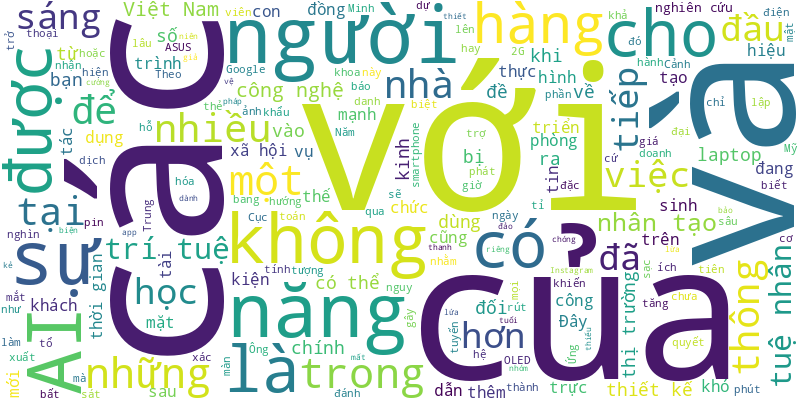
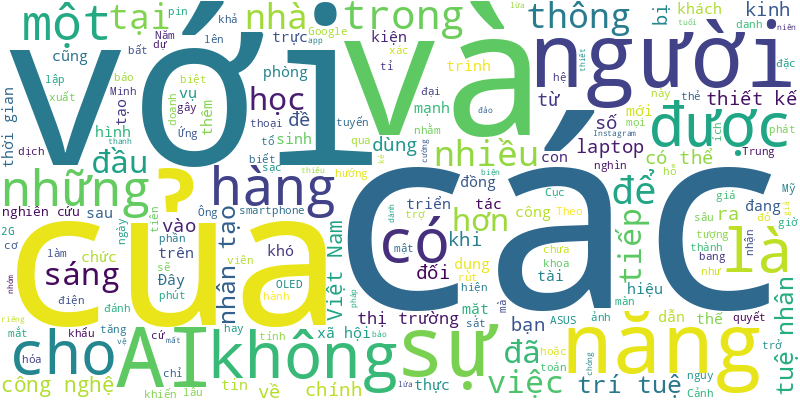
🍀 = 40%

diff --git a/README.md b/README.md
@@ -1,6 +1,19 @@
 # Tuoi Tre RSS 
 
 ## Giáo dục 
+- Đó là chia sẻ của ông Luke Turner, giám đốc điều hành Trường song ngữ quốc tế Emasi Nam Long, TP.HCM, về việc tổ chức "Tuần lễ sẻ chia" hướng về vùng bão lũ cho học sinh.
+- Những học sinh vùng lũ ở Trấn Yên (Yên Bái) đón nhận niềm vui trẻ thơ, sau nhiều ngày cùng gia đình vượt qua đợt mưa lũ lịch sử.
+- Huân chương Cành cọ hàn lâm ghi nhận nỗ lực không ngừng nghỉ của TS Phan Thị San Hà trong việc xây dựng và phát triển Trung tâm CARE cũng như bồi đắp mối quan hệ giữa Trường đại học Bách khoa (Đại học Quốc gia TP.HCM) và các đối tác Pháp.
+- Chiều 19-9, báo Tuổi Trẻ và Trường đại học Nguyễn Tất Thành tổng kết khóa 1 dự án hợp tác đào tạo sinh viên giữa hai bên.
+- Trước những thiệt hại do bão số 3, Bộ Giáo dục và Đào tạo yêu cầu các trường thực hiện các giải pháp dạy học linh hoạt, không gây áp lực, quá tải cho giáo viên và học sinh.
+- Năm học mới, Hải Phòng miễn toàn bộ học phí từ mầm non đến THPT; Quảng Ninh sẽ xem xét hỗ trợ 100% học phí cho học sinh vì bão số 3; Vĩnh Phúc giảm 50% học phí so với năm ngoái.
+- Số lượng sinh viên đại học bỏ học ở Hàn Quốc tăng đột biến trong 5 năm qua, khi có tới 90.000 sinh viên bỏ học từ năm 2019-2023.
+- Khóa học do các chuyên gia trong lĩnh vực bán dẫn từ Đại học Quốc gia Singapore (NUS), Trung tâm Nghiên cứu khoa học quốc gia Pháp (CNRS)... hướng dẫn.
+- Sáng 19-9, TP.HCM tổ chức sơ kết 1 năm triển khai chương trình phối hợp giữa Sở Giáo dục và Đào tạo và Sở Lao động - Thương binh và Xã hội về định hướng phân luồng và giáo dục nghề nghiệp với học sinh THCS và THPT giai đoạn 2023-2025.
+- Nhiều trường học tại TP.HCM đã dành ngày làm việc tốt "gửi nắng yêu thương" hướng về đồng bào vùng bão lũ.
+- Năm học 2024-2025, Trường đại học Cần Thơ triển khai đề án nâng cấp trường thành trung tâm đào tạo nguồn nhân lực chất lượng cao, nghiên cứu, ứng dụng khoa học của TP Cần Thơ và vùng Đồng bằng sông Cửu Long.
+- Để chủ động và linh hoạt trong ứng phó bão số 4, đảm bảo an toàn cho thầy và trò, Bộ Giáo dục và Đào tạo lưu ý 17 tỉnh, thành cân nhắc cho học sinh nghỉ học khi cần.
+- "Tham gia nhiều giải đấu nhưng bạn vẫn cân bằng được việc học, rồi còn rất tích cực trong các hoạt động của trường, thiện nguyện. Tiếp xúc với bạn, tôi thấy có nhiều động lực để phát triển bản thân hơn".
 - Tỉnh Thừa Thiên Huế đã phát thông báo cho học sinh toàn tỉnh nghỉ học để ứng phó với cơn bão số 4 có khả năng đổ bộ trực tiếp tỉnh này.
 - Ngày 18-9, Sở Giáo dục và Đào tạo Thanh Hóa cho biết dự kiến năm học 2025-2026, Trường THPT chuyên Lam Sơn sẽ tuyển sinh một lớp chuyên tiếng Trung Quốc.
 - Ngày 18-9, Nhà xuất bản Giáo Dục Việt Nam cho biết sẽ cung ứng bổ sung 18 triệu bản sách giáo khoa cho vùng bị bão lũ.
@@ -18,51 +31,38 @@
 - Sáng sớm vào Làng Nủ, tối muộn mới về. Nhà ngập ngổn ngang nhưng đành cứ để đấy... Nhiều thầy cô giáo đã và đang dốc sức để học trò có thể sớm đi học trở lại.
 - Nhiều nước đã thành công trong việc giảng dạy tiếng Anh như ngôn ngữ thứ hai trong trường học. Tuy nhiên không phải không có thử thách.
 - Để tránh những trường hợp đáng tiếc, nhà trường nên cấm phụ huynh lái ô tô vào trong sân trường đưa đón học sinh.
-- Hàng trăm học sinh ở Trường tiểu học Quang Kim, Bát Xát, Lào Cai mất sách vở vì không kịp chạy lũ. Những ngày đầu tiên đi học trở lại, nhiều chiếc ba lô nhẹ bâng vì thiếu sách vở.
-- Nhiều thí sinh đạt điểm cao trong kỳ thi Tốt nghiệp THPT năm 2024 đã đến với Đại học (ĐH) Duy Tân để tìm hiểu trong năm 2024 này.
-- Nhà giáo Nguyễn Xuân Khang, chủ tịch hội đồng Trường phổ thông liên cấp Marie Curie (Hà Nội), quyết định trường sẽ nhận nuôi những trẻ em từ 15 tuổi trở xuống ở thôn Làng Nủ.
-- Để luyện áp lực thời gian, căng thẳng như thi thật, thí sinh thi Kỹ năng nghề thế giới (WorldSkills) tìm đối thủ thi đấu online hoặc sang Áo, Hàn Quốc để nâng cao tay nghề.
-- Bộ Giáo dục và Đào tạo đề nghị các trường ưu tiên miễn, giảm học phí và có hỗ trợ phù hợp với hoàn cảnh của từng sinh viên.
-- Sở Giáo dục và Đào tạo TP.HCM quyết định thí điểm đưa tiếng Anh thành ngôn ngữ dạy học thứ hai trong nhà trường.
-- Sau những ngày nỗ lực khắc phục hậu quả của bão lũ số 3, học sinh nhiều địa phương miền Bắc đã dần trở lại trường lớp trong nỗ lực của địa phương và các thầy cô giáo.
-- Nhiếp ảnh gia Hồ Trung Lâm là người đoạt giải cao nhất tại cuộc thi The ASEAN SX Photo Contest 2024 với chủ đề ASEAN Biodiversity (Đa dạng sinh học ASEAN), do Hiệp hội Nhiếp ảnh Hoàng gia Thái Lan tổ chức.
-- Với không gian xanh mát và bền vững, Victoria School - Nam Sài Gòn đã giành Giải thưởng Kiến trúc Quốc tế.
-- Hải Phòng cấm vận động phụ huynh tài trợ sau bão số 3, cũng như lợi dụng danh nghĩa Ban đại diện cha mẹ học sinh để thu các khoản thu ngoài quy định.
-- Công an huyện Krông Búk, tỉnh Đắk Lắk đã triệu tập, ra quyết định tạm giữ hình sự phụ huynh lùi xe bán tải khiến một học sinh lớp 2 tử vong.
-- Chiều 16-9, đại diện Công ty Dai-ichi Life Việt Nam đã đến báo Tuổi Trẻ trao 500 triệu đồng cho chương trình Tiếp sức đến trường 2024.
-- Gần 100 học sinh khu vực thôn Làng Nủ đã có mặt tại Trường tiểu học và trung học cơ sở Phúc Khánh (Bảo Yên, Lào Cai) tập trung và học tập trở lại.
 ![Edu](Edu.png)
 ## Thời Sự 
-- Dự báo hôm nay, bão số 4 hướng vào ven biển Quảng Trị - Quảng Nam rồi đi vào đất liền các tỉnh miền Trung. Hiện nay ở khu vực này có nơi mưa to.
-- Trung tâm Dự báo khí tượng thủy văn quốc gia dẫn các dự báo quốc tế đều nhận định áp thấp nhiệt đới sẽ mạnh lên thành bão số 4 khi đi qua quần đảo Hoàng Sa. Các tỉnh dọc dải đất miền Trung đang chủ động chuẩn bị nhiều phương án ứng phó khi bão đổ bộ.
-- Khi vụ bạo hành trẻ ở mái ấm Hoa Hồng (quận 12, TP.HCM) bị phanh phui, cơ quan chức năng kiểm tra thì lộ ra cơ sở có đến 85 trẻ, chứ không phải chỉ 39 trẻ như đăng ký.
-- Nhiều đoạn suối vách đá dựng đứng, các chiến sĩ công an, quân đội... tay không bám đá, vượt dòng suối dữ, tìm nạn nhân mất tích trong vụ sạt lở núi cuốn hơn 30 người xuống suối ở Cao Bằng.
-- Dự báo hôm nay, bão số 4 hướng vào ven biển Quảng Trị - Quảng Nam rồi đi vào đất liền các tỉnh miền Trung. Cơ quan khí tượng cảnh báo tại Quảng Bình, Quảng Trị, Thừa Thiên Huế, Đà Nẵng có mưa rất lớn trong sáng nay.
-- Tỉnh Thừa Thiên Huế đã phát thông báo cho học sinh toàn tỉnh nghỉ học để ứng phó với cơn bão số 4 có khả năng đổ bộ trực tiếp tỉnh này.
-- Cục Hàng không Việt Nam quyết định tạm ngừng tiếp thu, khai thác tàu bay tại cảng hàng không Đồng Hới từ 15h - 22h ngày 22-9 để tránh bão số 4.
-- Sáng sớm nay (19-9), áp thấp nhiệt đới trên khu vực phía Đông Bắc quần đảo Hoàng Sa đã mạnh lên thành bão. Đây là cơn bão số 4 hoạt động trên Biển Đông trong năm 2024.
-- Một số tin tức đáng chú ý: Giá nhà miền Bắc tiếp tục tăng mạnh, miền Nam biến động không quá lớn; Một doanh nghiệp bất động sản 'khất' nợ trái phiếu đến lần thứ hai; Kế toán trưởng FLC xin chấm dứt hợp đồng lao động...
-- Vụ tai nạn nghiêm trọng giữa 2 xe giường nằm hãng Phương Trang và Hồng Sơn vừa xảy ra khoảng 0h ngày 19-9 tại km191+500 cao tốc Vĩnh Hảo - Phan Thiết khiến 2 người chết, nhiều người bị thương.
-- Ảnh hưởng của dải hội tụ nhiệt đới nối với áp thấp nhiệt đới trên biển, hôm nay 19-9, thời tiết cả nước mưa to đến rất to.
-- Thủ tướng Phạm Minh Chính vừa ký công điện số 98 ngày 18-9 chỉ đạo tập trung ứng phó áp thấp nhiệt đới có khả năng mạnh lên thành bão và mưa lũ.
-- Tập đoàn Dầu khí quốc gia Việt Nam sẽ đảm nhận việc tái thiết khu dân cư thôn Kho Vàng và sẽ triển khai ngay để đến ngày 31-12 người dân được về nơi ở mới.
-- Bộ Chính trị nêu rõ mục tiêu chung xây dựng tuyến đường sắt tốc độ cao nhằm đáp ứng nhu cầu vận tải, góp phần tái cơ cấu thị phần vận tải trên hành lang Bắc - Nam một cách tối ưu, bền vững.
-- Tối 18-9, Công ty cổ phần Thủy điện Đak Mi đã có thông báo về việc điều tiết nước qua cửa van hồ chứa thủy điện Đak Mi 4.
-- Nhận tin tàu hàng bị chìm trên vùng biển Quảng Nam, 8 thuyền viên đã lên bè cứu sinh trôi nổi trên biển và đang cầu cứu, tàu cảnh sát biển đã cứu thành công cả 8 người, trong điều kiện biển động do ảnh hưởng của áp thấp nhiệt đới.
-- Phó thủ tướng thường trực Nguyễn Hòa Bình nhấn mạnh khi chủ trì cuộc họp xét duyệt danh sách đề nghị Chủ tịch nước đặc xá tha tù trước thời hạn cho các phạm nhân đủ điều kiện.
-- Xe tải chở hàng trên quốc lộ 14 bị Đội quản lý thị trường số 1 tỉnh Kon Tum chặn lại kiểm tra rồi tạm giữ 21 ngày, xong thả ra với lý do hết thời hạn tạm giữ.
-- Tính đến chiều 18-9, đã có gần 6.000 lượt bạn đọc là cá nhân và doanh nghiệp đóng góp số tiền hơn 17 tỉ đồng.
-- Khi đi giải tỏa đất rừng bị lấn chiếm, một thành viên của Ban quản lý rừng Lâm Viên (Đà Lạt) bị dính bẫy bàn chông kim tiêm.
-- “Người chưa thành niên khi lớn lên là một người tốt, không nên nhắc gì đến những chuyện trong thời họ chưa thành niên vi phạm, giúp họ tái nhập vào trong cộng đồng một cách an tâm”.
-- Cựu thứ trưởng Đỗ Thắng Hải cùng các bị can là cựu lãnh đạo cấp vụ của Bộ Công Thương nhận hối lộ tổng số tiền 315.000 USD để 'tạo điều kiện' cấp phép kinh doanh xăng dầu cho Xuyên Việt Oil.
-- Phó thủ tướng Nguyễn Hòa Bình vừa ký các quyết định của Thủ tướng Chính phủ thi hành kỷ luật nguyên thứ trưởng và thứ trưởng Bộ Tài chính.
-- Do ảnh hưởng của áp thấp nhiệt đới khả năng mạnh lên thành bão, ngày mai 19-9, học sinh toàn tỉnh Quảng Nam được nghỉ học để đảm bảo an toàn.
-- Trung tâm Dự báo khí tượng thủy văn quốc gia khẳng định áp thấp nhiệt đới đang ở khu vực quần đảo Hoàng Sa, sáng mai (19-9) mới tiến gần bờ và gây mưa to gió mạnh. Không có chuyện đã vào đất liền khu vực Trung Bộ như mạng xã hội đồn thổi.
-- Bữa ăn có thịt và nhiều rau xanh. Hơn 100 em học sinh Làng Nủ ở bán trú ăn ngon lành sau những ngày mưa lũ, thiếu thực phẩm.
-- Người lừa đảo giả danh công an gọi điện hù dọa cụ bà 80 tuổi tại huyện Đức Cơ (tỉnh Gia Lai) có liên quan vụ án rửa tiền, và suýt lừa trót lọt 800 triệu đồng.
-- Lo ngại bão có thể đổ bộ vào, nên nhiều ngư dân Đà Nẵng thuê xe cẩu thuyền từ dưới bờ biển lên, đưa đi tránh bão.
-- Điểm sạt lở mới được công bố tình huống khẩn cấp là điểm sạt lở thứ hai xảy ra gần đây ở huyện Cần Giuộc, Long An.
-- Trước dự báo miền Trung có mưa lớn do áp thấp nhiệt đới, lãnh đạo Bộ Nông nghiệp và Phát triển nông thôn đề nghị các địa phương rà soát lại việc ứng phó. Quân đội sẵn sàng 10 máy bay cứu hộ và tiếp tế thực phẩm.
+- Bộ Nội vụ thống nhất với đề xuất của Bộ Lao động - Thương binh và Xã hội đưa ra về việc sẽ nghỉ Tết Ất Tỵ 9 ngày liên tiếp.
+- Sau khi kết luận điều tra vụ cửa hàng xe máy Tân Tiến bán xe gian được “phù phép” thành xe mới, Công an TP.HCM tiếp tục điều tra, xác minh các sai phạm liên quan công tác đăng ký, cấp biển số, thuế…
+- Một số tin tức đáng chú ý: TP.HCM thay thế 2.765 cây xanh hư hại; Nhà đầu tư Trung Quốc tăng rót vốn vào Việt Nam; Một số ngân hàng bất ngờ giảm lãi suất huy động...
+- Do ảnh hưởng của vùng thấp suy yếu từ bão số 4, thời tiết các tỉnh miền Trung hôm nay có mưa rất to. Nam Bộ ngày mưa rào, có lúc mưa to.
+- Hai phó thủ tướng cùng chủ trì cuộc họp nghe báo cáo, cho ý kiến dự thảo nghị quyết về cơ chế, chính sách đặc thù tháo gỡ khó khăn, vướng mắc cho dự án, đất đai trong kết luận thanh tra, kiểm tra, bản án.
+- Tối 19-9, Đồn biên phòng Đắc Pring (Bộ đội biên phòng Quảng Nam) cho biết sau nhiều giờ huy động cán bộ chiến sĩ cùng lực lượng địa phương, toàn bộ dân ở thôn 56B, xã Đắk Pre (huyện Nam Giang) đã được sơ tán tới nơi an toàn.
+- Thuduc House vừa cho biết đã nhận được các quyết định cưỡng chế thuế bằng biện pháp trích tiền từ tài khoản của công ty.
+- Những học sinh vùng lũ ở Trấn Yên (Yên Bái) đón nhận niềm vui trẻ thơ, sau nhiều ngày cùng gia đình vượt qua đợt mưa lũ lịch sử.
+- Đến 17h ngày 19-9, tài khoản của Ban Vận động cứu trợ Trung ương đã tiếp nhận tổng số tiền 1.495 tỉ đồng ủng hộ đồng bào bị thiệt hại do bão lũ.
+- Chuyến công tác từ ngày 21-9 tới là hoạt động đối ngoại đa phương và làm việc tại Mỹ đầu tiên của Tổng Bí thư, Chủ tịch nước Tô Lâm trên cương vị mới.
+- Tính đến chiều 19-9, báo Tuổi Trẻ đã tiếp nhận hơn 18 tỉ đồng từ hơn 6.000 lượt bạn đọc, tổ chức và cá nhân gửi bà con vùng bão lũ phía Bắc.
+- Ban Dân dụng công nghiệp TP.HCM đang kiến nghị Sở Xây dựng sớm thẩm định, phê duyệt dự án nâng cấp sân vận động Thống Nhất để hoàn thành, đưa vào phục vụ Đại hội Thể dục thể thao toàn quốc lần thứ 10-2026.
+- Bạc Liêu chỉ đạo thu hoạch lúa hè thu 'sớm nhất có thể', không chờ có thương lái đến mua mới thu hoạch. Việc thu hoạch gấp rút là do mưa dầm những ngày qua, và dự báo còn mưa nhiều trong những ngày tới.
+- Khu nhà xưởng gia công bao bì với diện tích khoảng 140m2 đã xảy ra hỏa hoạn vào chiều 19-9. Cột khói đen từ vụ cháy bốc cao hàng chục mét.
+- Chiều nay, Việt Nam tiếp nhận hàng hóa viện trợ của Singapore để hỗ trợ đồng bào bị ảnh hưởng bởi bão số 3 (Yagi) và mưa lũ sau bão.
+- Ngày làm việc thứ 2 Hội nghị Trung ương 10, Trung ương Đảng thảo luận nhiều nội dung quan trọng, trong đó có phương hướng công tác nhân sự Ban Chấp hành Trung ương Đảng khóa XIV.
+- “Nếu đem khoảng 10 triệu xe mà TP.HCM đang quản lý xếp trên mặt đường thì phải mở rộng mặt đường hiện hữu lên gấp 2,5 lần mới đủ”, ông Bùi Hòa An - phó giám đốc Sở Giao thông vận tải TP.HCM - nhấn mạnh.
+- Do vách núi sạt lở trùm qua đường tỉnh 164, tràn xuống vùi lấp một nhánh đường sắt và uy hiếp ga Lâm Giang trên tuyến đường sắt Hà Nội - Lào Cai, đến ngày 19-9 tàu khách vẫn chưa khai thác trở lại trên tuyến này.
+- Vòng xoay A1, hay còn gọi là “vòng xoay 7ha” tại thành phố mới Bình Dương được định hướng là đầu mối phát triển đô thị, có nhà ga metro kết nối với TP.HCM chính thức được khởi động.
+- Dù bão số 4 đã suy yếu thành áp thấp nhiệt đới nhưng hoàn lưu tiếp tục gây mưa lớn cho các tỉnh từ Thanh Hóa trở vào Quảng Trị từ tối nay đến ngày mai với lượng mưa từ 100-200mm, có nơi trên 300mm.
+- Có tình trạng nạn nhân bị lừa đưa sang nước ngoài làm 'việc nhẹ, lương cao', từ nạn nhân bị mua bán người trở thành thủ phạm vi phạm pháp luật ở quốc gia khác.
+- Ngoài các giải pháp công trình, TP.HCM có 312 đội xung kích với khoảng 21.000 người sẽ kịp thời ứng phó khi có sự cố đê bao, bờ bao, hạn chế thấp nhất thiệt hại về người và tài sản cho người dân.
+- Từ ngày 17-9, BOT Phú Hữu (TP Thủ Đức) bắt đầu thu phí. Tuy nhiên, một số doanh nghiệp và người dân khu vực tỏ ra bức xúc, cho rằng việc thu phí chưa hợp lý.
+- Bộ Nội vụ đề xuất phường loại 1, 2 ở Hà Nội có chủ tịch, 2 phó chủ tịch, 6 chức danh công chức. Phường loại 3 có chủ tịch, 1 phó chủ tịch.
+- Xe cứu thương đang chở bệnh nhân, bật còi hú chạy trên đường Võ Văn Kiệt (quận 5, TP.HCM) thì xảy ra va chạm liên hoàn với 3 ô tô khác. Lực lượng chức năng đang điều tra nguyên nhân.
+- 2.000 suất cháo, cơm nghĩa tình của chị Trần Thị Tuyết Vân ở phường Dương Đông (TP Phú Quốc) gửi đến bà con có hoàn cảnh khó khăn bị ảnh hưởng ngập nước cục bộ ở địa phương.
+- Kỳ triều cường tháng 9 này có cường độ mạnh, lại trùng với thời điểm có thể xảy ra những trận mưa lớn trên diện rộng và kéo dài, nên nhiều đài khí tượng thủy văn ở miền Tây cảnh báo ngập sâu trong vài ngày tới.
+- Qua kiểm tra khu vực biển ở TP Phú Quốc, Kiên Giang, Công an xã Gành Dầu cùng lực lượng địa phương đã phát hiện một người dân tàng trữ thuốc nổ trên tàu cá để đánh bắt thủy hải sản.
+- Sáng 19-9, nước sông Cu Đê dâng cao gây ngập lụt, chia cắt nhiều khu vực trên địa bàn xã Hòa Bắc (huyện Hòa Vang, TP Đà Nẵng).
+- Một chủ quán ăn bị một người mạo danh cán bộ quân đội lừa đặt cơm, rồi chiếm đoạt hơn 270 triệu đồng.
 ![New](News.png)
 ## Nhịp sống số 
 - Ứng dụng Instagram đã cho ra mắt tính năng được thiết kế dành riêng cho lứa tuổi thanh thiếu niên nhằm tăng cường các biện pháp bảo vệ nhóm đối tượng này.
